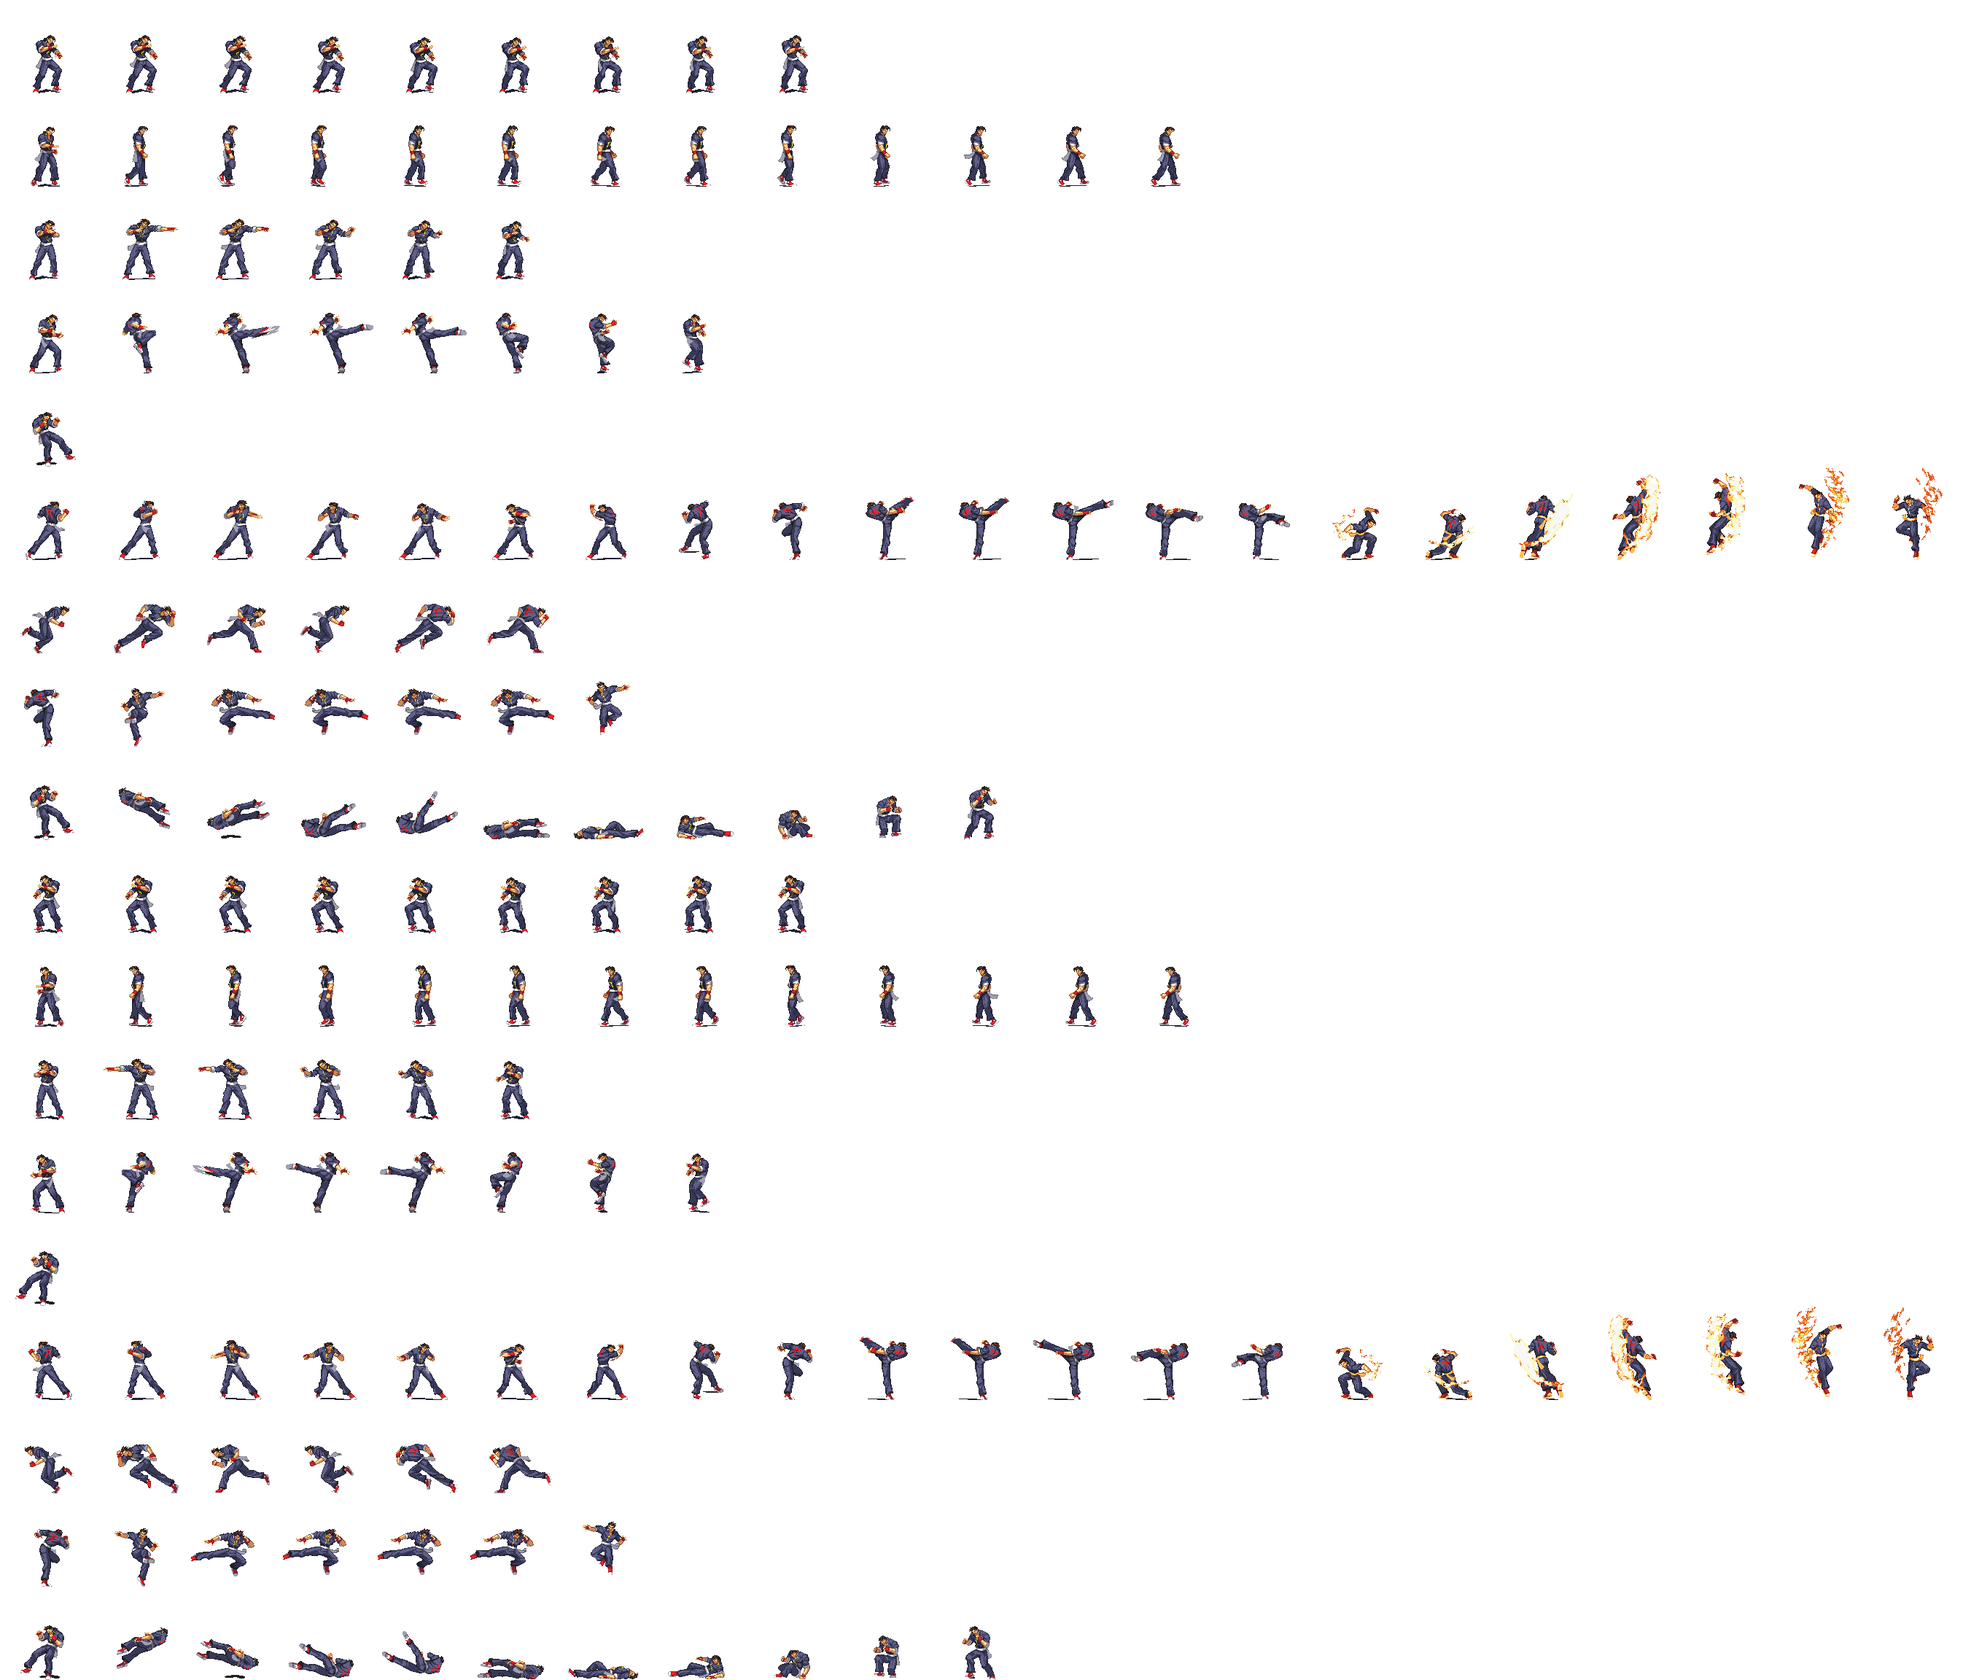
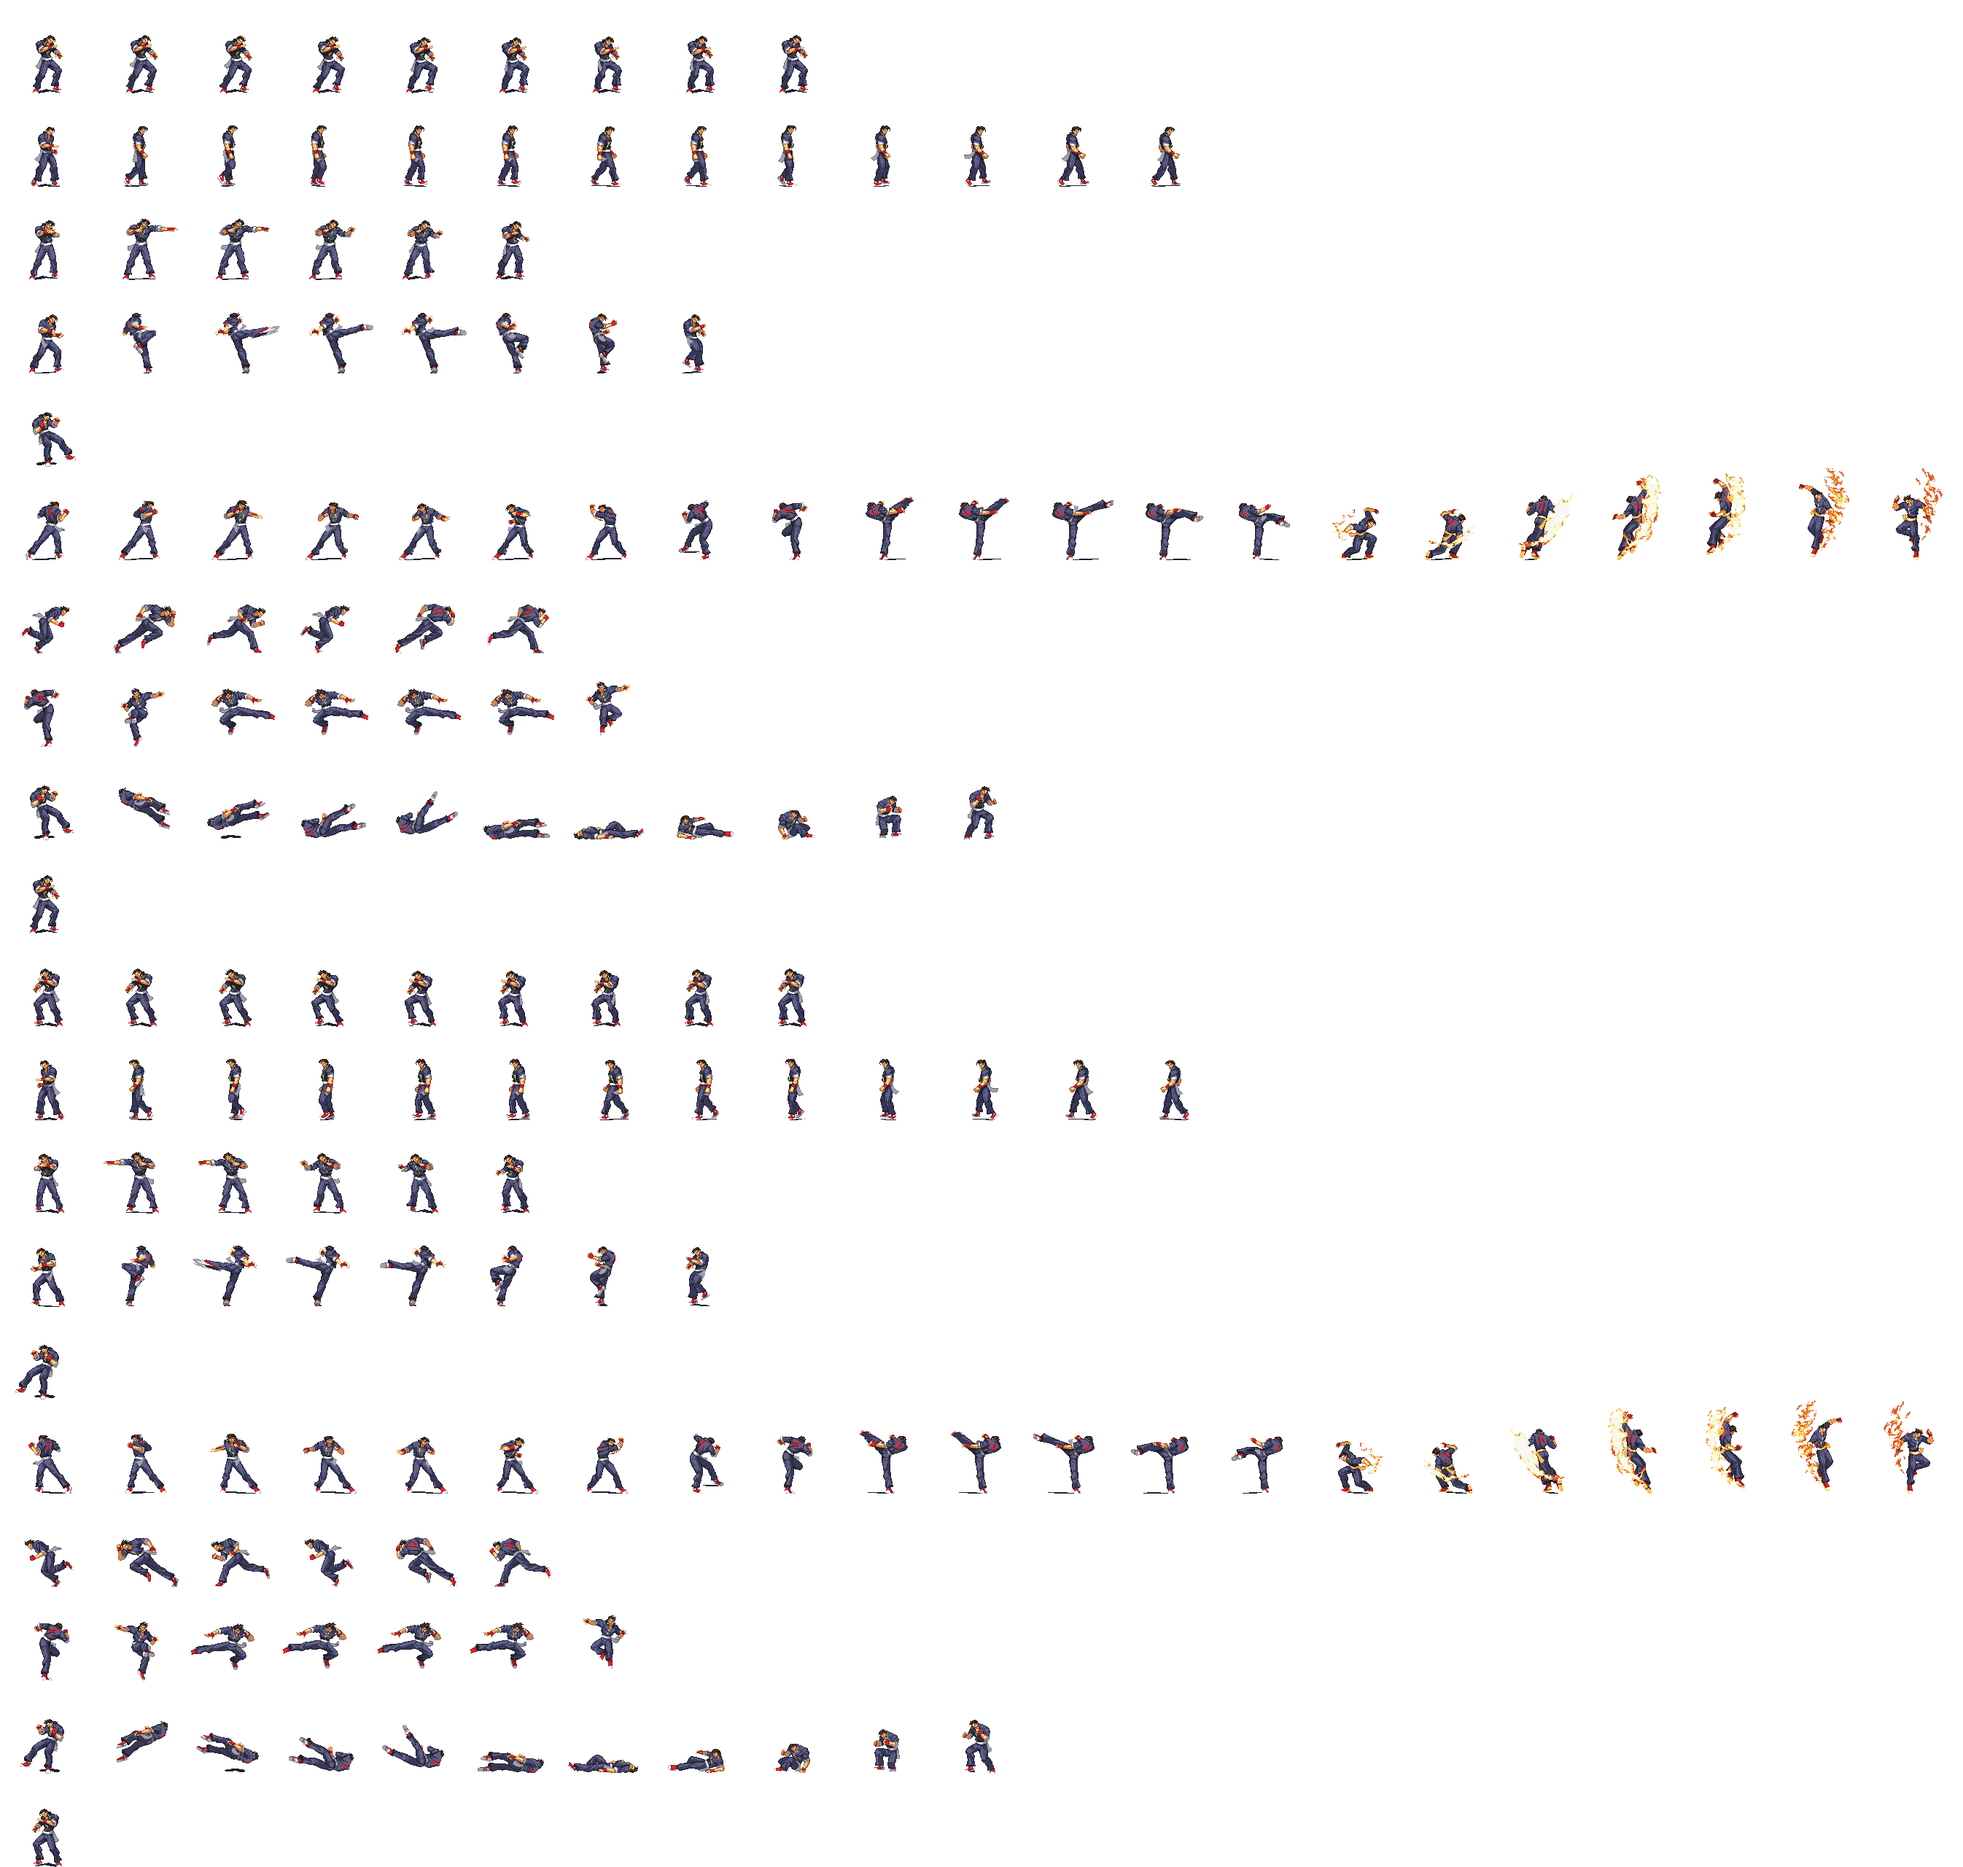
* i added an additional virtual stun(int) to BGE * player dies and respawns :) things can be easily modified, such as falling speed, falling starting position etc..

diff --git a/Action Bros Now/Player.cpp b/Action Bros Now/Player.cpp
@@ -3,8 +3,8 @@
 
 Player::Player(std::string n):BaseGameEntity(n)
 {
-	health = 100;
-	maxHealth = 100;
+	health = MAXHEALTH;
+	maxHealth = MAXHEALTH;
 	special = 100;
 	maxSpecial = 100;
 	lives = 3;
@@ -540,8 +540,12 @@ int Player::UpdatePlayerState()
 		}
 		break;
 	case FALL:
-		if(anim == 6)
+		if(anim == 5)
 		{
+			if(now - aniFStart >= RESPAWN_WAIT_TIME)
+			{
+				alive = false;
+			}
 
 		}
 		else
@@ -552,14 +556,30 @@ int Player::UpdatePlayerState()
 				{
 					if(anim < MAXDEATHFRAME-1)
 						anim++;
-					else
-						alive = false;
 				}
 				else			//fall
 				{
 				}
 				aniFStart = now;
 			}
+		}
+		break;
+	case RESPAWN:
+		if(now - aniFStart >= MAXRESPAWNANIMATION)
+		{
+			if(anim < 1)
+				anim++;
+			else
+			{
+				anim = 0;
+			}
+			aniFStart = now;
+		}
+		if(sprInfo.POS.y <= -40.0f)
+		{
+			state = IDLE;
+			anim = 0;
+			vel.y = 0.0f;
 		}
 	}
 
@@ -695,6 +715,15 @@ void Player::stun()
 {
 	//min + rand() % max - min + 1
 	stunTime = 100 + rand() % 201;
+	stunStart = clock();
+	state = STUN;
+	this->setVel(D3DXVECTOR3(0.0f, 0.0f, 0.0f));
+}
+
+void Player::stun(int num)
+{
+	//min + rand() % max - min + 1
+	stunTime = (100 + rand() % 201) + num;
 	stunStart = clock();
 	state = STUN;
 	this->setVel(D3DXVECTOR3(0.0f, 0.0f, 0.0f));

diff --git a/Action Bros Now/Game.cpp b/Action Bros Now/Game.cpp
@@ -93,7 +93,7 @@ bool Game::loadLvl()
 	hitEnemy = lastHitEnemy = -1;
 
 	//set players data for the next level (parameter should be gotten from Level? constant for now)
-	player->setPos(D3DXVECTOR3(-1350.0f, 0.0f, 0.0f));
+	player->setPos(D3DXVECTOR3(-1350.0f, -40.0f, 0.0f));
 
 	//new song per level
 	if(soundManager::getInstance()->isBGMplaying())
@@ -160,7 +160,7 @@ bool Game::update(clock_t ct)
 		}
 		break;
 	case 2:
-		if(player->getState() != STUN && player->getState() != FALL)
+		if(player->getState() != STUN && player->getState() != FALL && player->getState() != RESPAWN)
 			player->DoAction(input);
 		if(!player->isAlive())
 		{
@@ -366,7 +366,19 @@ int Game::checkAttacks()
 
 void Game::respawnPlayer()
 {
-	
+	D3DXVECTOR3 pPos = player->getPos();
+	player->decLives();
+	player->setState(RESPAWN);
+	for(int i = 0; i < EntMgr->getVecSize(); ++i)
+	{
+		EntMgr->stunEnt(i, 1000);
+	}
+	player->setHealth(MAXHEALTH);
+	player->setAlive(true);
+	player->setVel(D3DXVECTOR3(0.0f, -8.0f, 0.0f));
+	pPos.y += 480;
+	player->setPos(D3DXVECTOR3(pPos));
+	player->resetTimes();
 }
 
 int Game::titleScreen(char input)

diff --git a/Action Bros Now/BaseGameEntity.cpp b/Action Bros Now/BaseGameEntity.cpp
@@ -91,21 +91,24 @@ void BaseGameEntity::move(clock_t TIME)
 	}
 	else
 	{
-		//keep player within boundaries
-		if(sprInfo.POS.y >= YLIMIT_TOP)
+		if(state != RESPAWN)
 		{
-			sprInfo.POS.y = YLIMIT_TOP;
-			vel.y = 0.0f;
-		}
-		if(sprInfo.POS.y <= YLIMIT_BOTTOM)
-		{
-			sprInfo.POS.y = YLIMIT_BOTTOM;
-			vel.y = 0.0f;
-		}
-		if(sprInfo.POS.x <= -1500.0f)
-		{
-			sprInfo.POS.x = -1500.0f;
-			vel.x = 0.0f;
+			//keep player within boundaries
+			if(sprInfo.POS.y >= YLIMIT_TOP)
+			{
+				sprInfo.POS.y = YLIMIT_TOP;
+				vel.y = 0.0f;
+			}
+			if(sprInfo.POS.y <= YLIMIT_BOTTOM)
+			{
+				sprInfo.POS.y = YLIMIT_BOTTOM;
+				vel.y = 0.0f;
+			}
+			if(sprInfo.POS.x <= -1500.0f)
+			{
+				sprInfo.POS.x = -1500.0f;
+				vel.x = 0.0f;
+			}
 		}
 	}
 }

diff --git a/Action Bros Now/BaseGameEntity.h b/Action Bros Now/BaseGameEntity.h
@@ -70,6 +70,7 @@ public:
 	virtual void calcDrawRECT() = 0;
 	virtual void UpdateStat(int, int) = 0;
 	virtual void stun() = 0;
+	virtual void stun(int) = 0;	//para: add-on to regular stun. extra stun time
 	virtual void die() = 0;
 
 	//move player according to velocity
@@ -96,6 +97,8 @@ public:
 
 	//set methods
 	bool isAlive()					{ return alive; }
+	void setAlive(bool a)			{ alive = a; }
+	void setHealth(int h)			{ health = h; }
 	bool isTagged()					{ return tagged;} //Used to check enemy's neighbors to avoid
 	void tag()						{ tagged = true;} //Tags that entity to stop moving
 	void untag()					{ tagged = false;} //Untags them so the entities can move again

diff --git a/Action Bros Now/common.h b/Action Bros Now/common.h
@@ -39,7 +39,7 @@
 /////////////////////
 
 //current number of player states in spritesheet for one direction
-#define NUM_STATES		9
+#define NUM_STATES		10
 //these are for animation and stun length
 #define STUNTIME		500
 
@@ -60,6 +60,7 @@
 #define MAXPUNCHANIMATION		30
 #define MAXCOMBO1ANIMATION		60
 #define MAXDEATHANIMATION		100
+#define MAXRESPAWNANIMATION		200
 #define RESPAWN_WAIT_TIME		2000
 
 /////////////////////////
@@ -174,7 +175,7 @@ enum SCREENS
 //for the player states
 enum PlayerStates
 {
-	IDLE, WALK, PUNCH, KICK, STUN, COMBO1, RUN, KICK2, FALL
+	IDLE, WALK, PUNCH, KICK, STUN, COMBO1, RUN, KICK2, FALL, RESPAWN
 };
 
 /////////////

diff --git a/Action Bros Now/Player.h b/Action Bros Now/Player.h
@@ -3,6 +3,8 @@
 #include "BaseGameEntity.h"
 #include "soundManager.h"
 
+#define MAXHEALTH		100
+
 class Enemy;
 
 class Player : public BaseGameEntity
@@ -23,6 +25,7 @@ public:
 	void takeDMG(int DMG)			{ health -= DMG;}
 	void setSheetPtr(spriteSheet*);
 	void DoAction(char);
+	void decLives()					{ lives--; }
 
 	/*Get Functions for Attributes*/
 	bool isStunned()		{ return stunned;}
@@ -39,6 +42,7 @@ public:
 	virtual void UpdateStat(int stat,int val); 
 	virtual void UpdateState(Player*,std::vector<BaseGameEntity*>) {};
 	virtual void stun();
+	virtual void stun(int);
 	virtual void die();
 };
 #endif

diff --git a/Action Bros Now/Enemy.cpp b/Action Bros Now/Enemy.cpp
@@ -374,6 +374,17 @@ void Enemy::stun()
 	this->setVel(D3DXVECTOR3(0.0f, 0.0f, 0.0f));
 }
 
+void Enemy::stun(int num)
+{
+	//min + rand() % max - min + 1
+	stunTime = (200 + rand() % 301) + num;
+	stunStart = clock();
+	state = E_STUN;
+	anim = 0;
+	aniFStart = clock();
+	this->setVel(D3DXVECTOR3(0.0f, 0.0f, 0.0f));
+}
+
 int Enemy::getDistance(Enemy* e,Player* p)
 {
 	D3DXVECTOR3 ePos,pPos;

diff --git a/Action Bros Now/Boss.cpp b/Action Bros Now/Boss.cpp
@@ -259,3 +259,12 @@ void Boss::stun()
 	state = E_STUN;
 	this->setVel(D3DXVECTOR3(0.0f, 0.0f, 0.0f));
 }
+
+void Boss::stun(int num)
+{
+	//min + rand() % max - min + 1
+	stunTime = (200 + rand() % 301) + num;
+	stunStart = clock();
+	state = E_STUN;
+	this->setVel(D3DXVECTOR3(0.0f, 0.0f, 0.0f));
+}

diff --git a/Action Bros Now/EntityManager.h b/Action Bros Now/EntityManager.h
@@ -38,6 +38,8 @@ public:
 	bool isVectorEmpty()	{ return entityVector.empty();}
 	int getVecSize()		{ return entityVector.size(); }
 
+	void stunEnt(int i, int a)		{ entityVector[i]->stun(a); }
+
 	//update the entities
 	//void entiyUpdate(Player* player);
 };

diff --git a/Action Bros Now/Enemy.h b/Action Bros Now/Enemy.h
@@ -37,6 +37,7 @@ public:
 	virtual void UpdateStat(int,int);
 	virtual void UpdateState(Player*,std::vector<BaseGameEntity*>);
 	virtual void stun();
+	virtual void stun(int);
 	int  getDistance(Enemy*,Player*);
 
 	bool update();

diff --git a/Action Bros Now/Boss.h b/Action Bros Now/Boss.h
@@ -34,6 +34,7 @@ public:
 	virtual void calcDrawRECT();
 	virtual void UpdateState(Player*,std::vector<BaseGameEntity*>);
 	virtual void stun();
+	virtual void stun(int);
 	virtual void die() {};
 
 	
